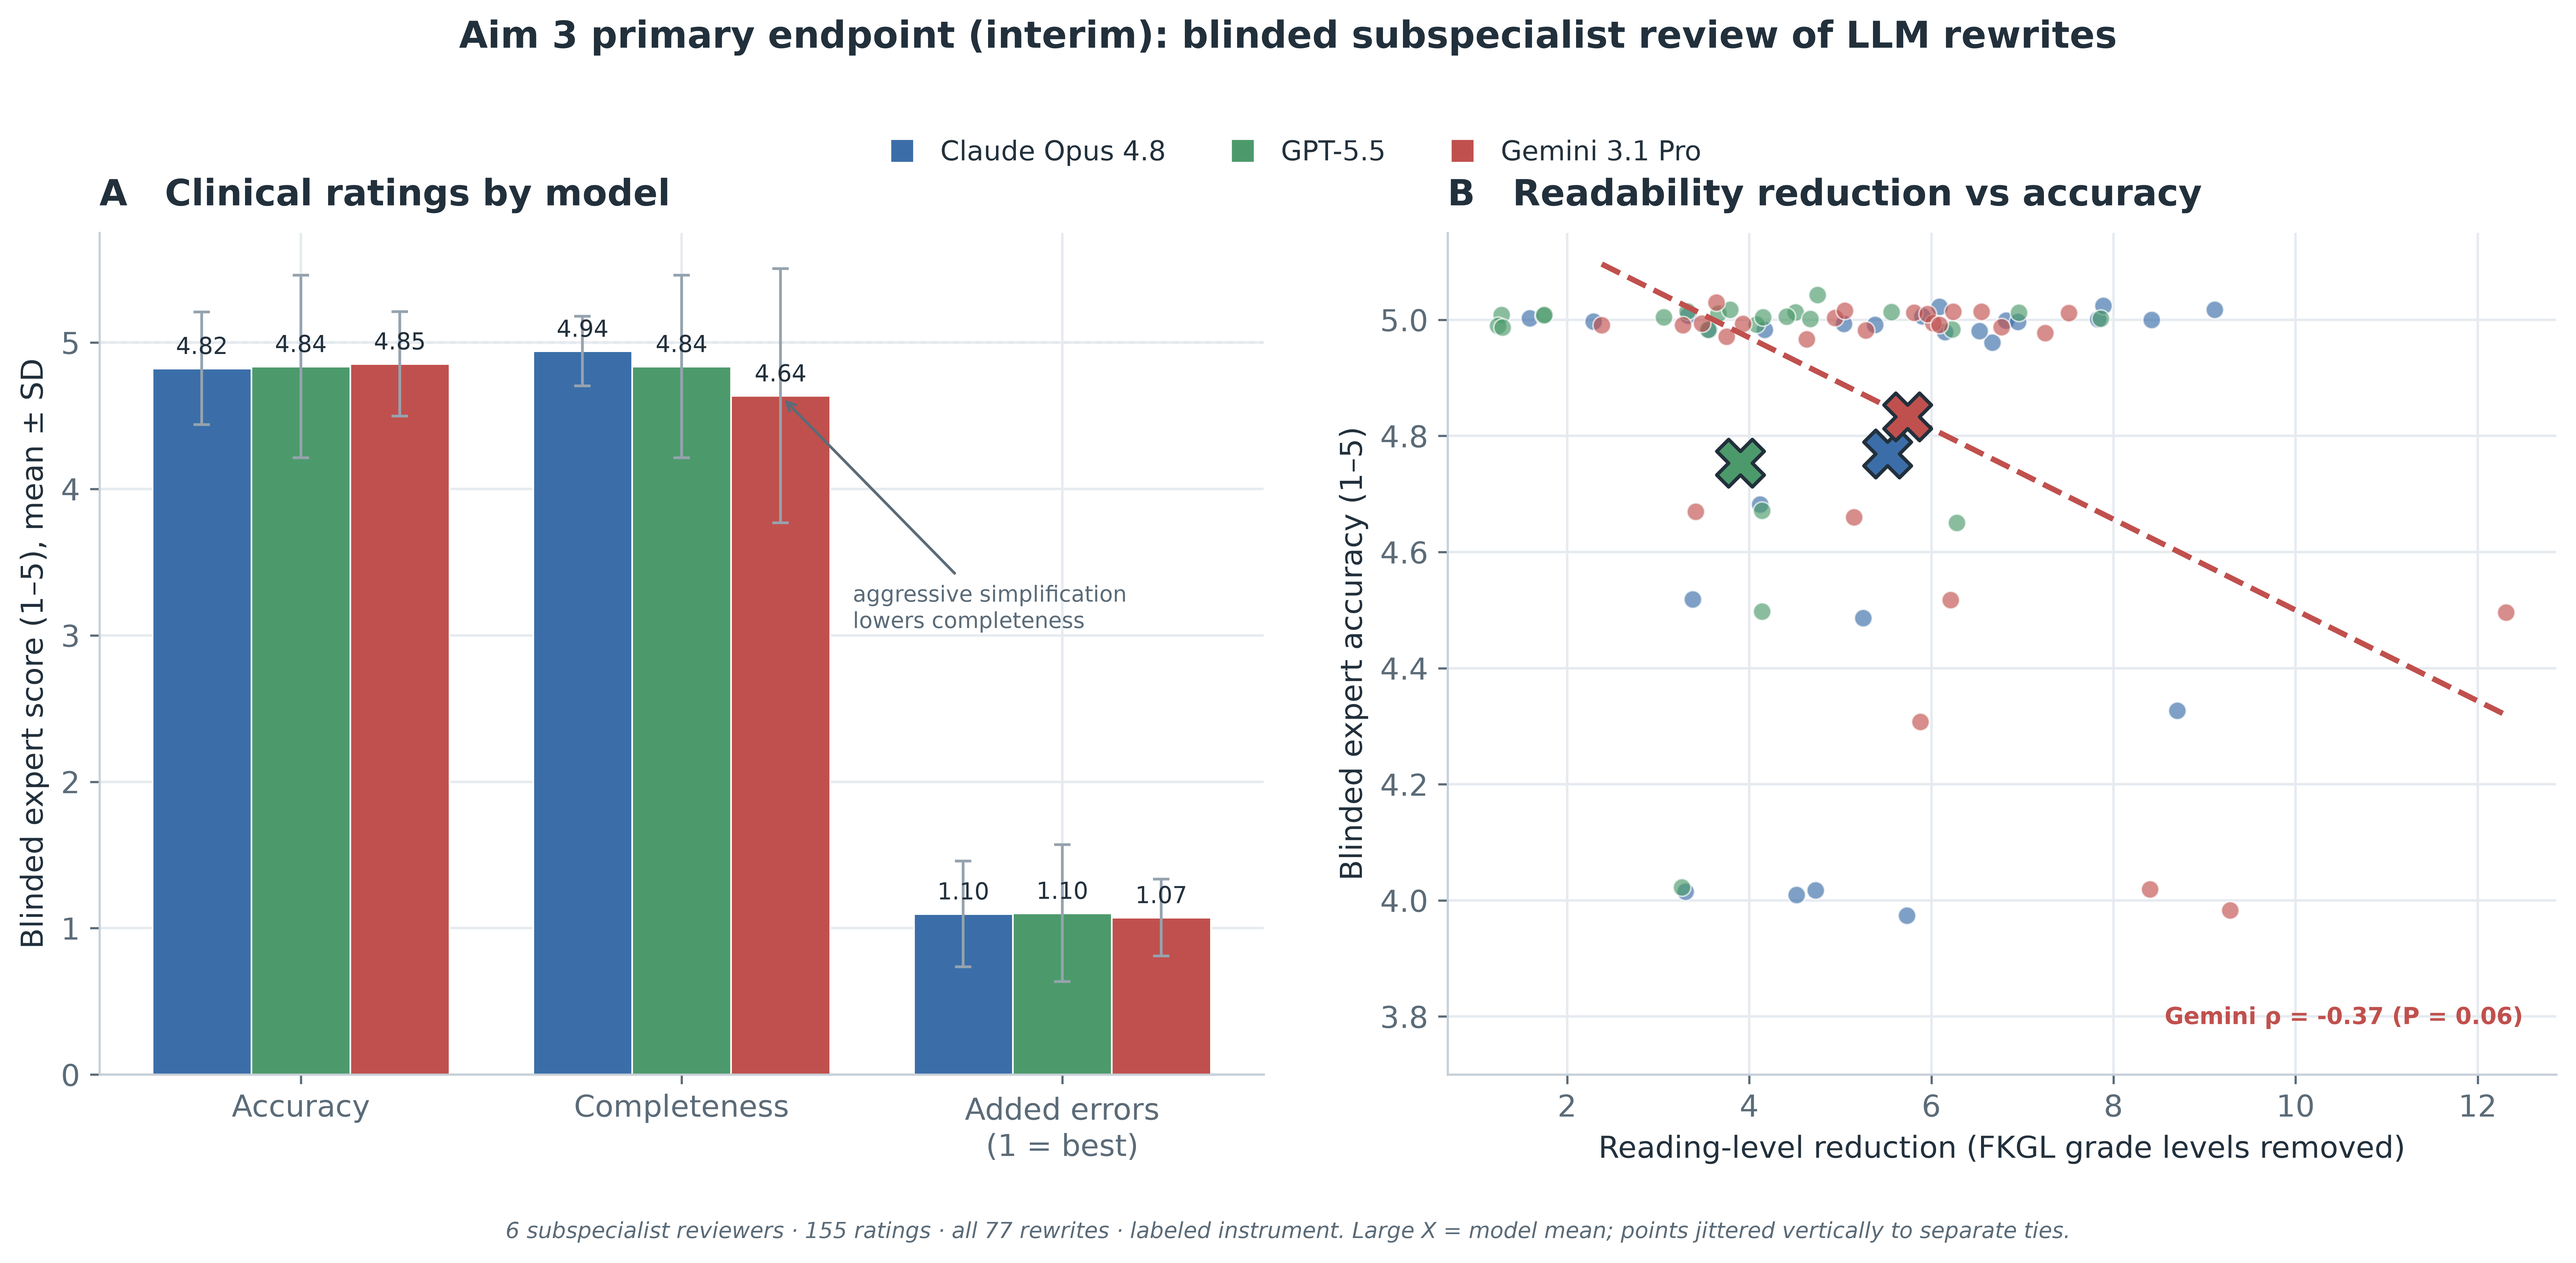
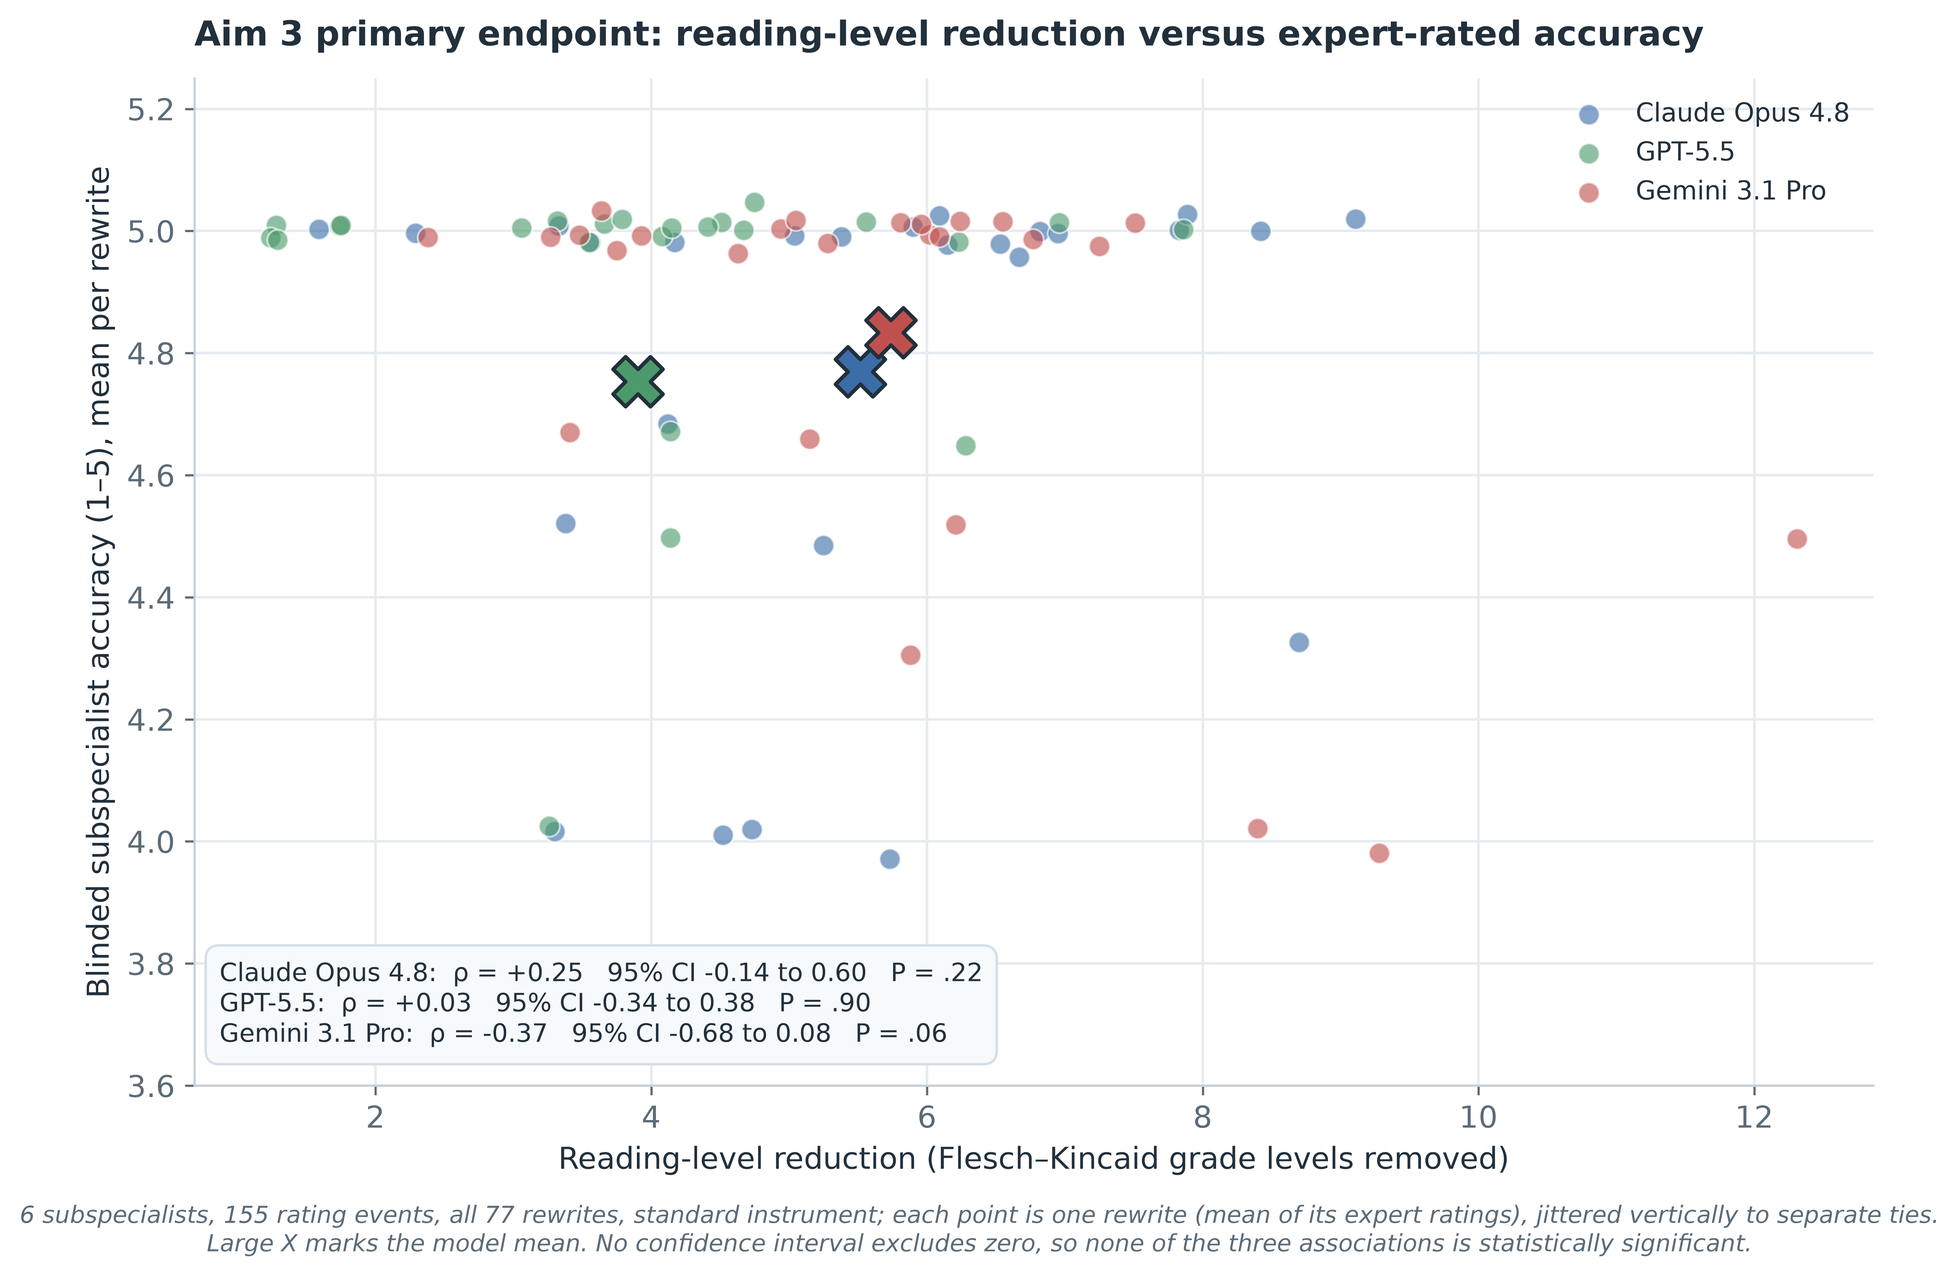
Reduce the Aim 3 primary figure to the per-rewrite trade-off panel
The bar panel duplicated Table 3 and the across-model comparison figure. A table
reports point estimates better than a bar chart; the scatter shows the ceiling, the
spread and the outliers, which a table cannot. The fitted line is also removed: the
inferential statistic is a rank correlation on an ordinal ceiling outcome, so an OLS
line implied a model never fitted. All three correlations now appear inset with
bootstrap CIs.

diff --git a/scripts/13_aim3_human_figures.py b/scripts/13_aim3_human_figures.py
@@ -29,7 +29,6 @@ matplotlib.use("Agg")
 import matplotlib.pyplot as plt  # noqa: E402
 import numpy as np  # noqa: E402
 import pandas as pd  # noqa: E402
-from scipy import stats  # noqa: E402
 
 REPO_ROOT = Path(__file__).resolve().parents[1]
 sys.path.insert(0, str(REPO_ROOT))
@@ -95,79 +94,66 @@ def _bar_labels(ax, bars, fmt="{:.2f}", dy=0.06, size=8.5):
 
 
 def fig_primary(bym: pd.DataFrame, raw: pd.DataFrame, cov: pd.DataFrame) -> None:
-    lab = bym[bym.condition == "expert_labeled"].set_index("model_id")
+    """Aim 3 primary endpoint: the per-rewrite readability-accuracy relationship.
+
+    Deliberately a single panel. An earlier version also carried grouped bars of the
+    per-model means, but Table 3 states those numbers exactly and the cross-model
+    comparison figure shows them again - three presentations of one result. A table
+    reports point estimates better than a bar chart; what a table cannot show is the
+    per-rewrite scatter, the ceiling in the accuracy ratings, and where the individual
+    outliers sit. That is what this figure contributes.
+
+    No fitted line is drawn. The inferential statistic is a Spearman rank correlation
+    on an ordinal outcome with a hard ceiling; an ordinary-least-squares line would
+    imply a linear model that was never fitted and would overstate an association
+    whose confidence interval includes zero.
+    """
     n_rev = int(cov.loc[cov.condition == "expert_labeled", "reviewers"].iloc[0])
     n_rat = int(cov.loc[cov.condition == "expert_labeled", "ratings"].iloc[0])
-    n_rw = int(cov.loc[cov.condition == "expert_labeled", "rewrites_total"].iloc[0])
 
-    fig, (axA, axB) = plt.subplots(1, 2, figsize=(13.2, 5.7),
-                                   gridspec_kw={"width_ratios": [1.05, 1]})
-
-    # ---- Panel A: grouped bars, 3 dimensions x 3 models ----
-    dims = [("accuracy_1_5", "Accuracy"), ("completeness_1_5", "Completeness"),
-            ("added_errors_1_5", "Added errors\n(1 = best)")]
-    x = np.arange(len(dims))
-    w = 0.26
-    for i, m in enumerate(MODELS):
-        means = [lab.loc[m, f"{a}_mean"] for a, _ in dims]
-        sds = [lab.loc[m, f"{a}_sd"] for a, _ in dims]
-        bars = axA.bar(x + (i - 1) * w, means, w, yerr=sds, capsize=3,
-                       label=LABELS[m], color=COLORS[m], edgecolor="white", linewidth=0.6,
-                       error_kw={"elinewidth": 1, "ecolor": "#95a3ae"})
-        _bar_labels(axA, bars)
-    axA.axhline(5, color="#b9c4cd", lw=1, ls=(0, (2, 2)), zorder=0)
-    axA.set_xticks(x)
-    axA.set_xticklabels([n for _, n in dims])
-    axA.set_ylabel("Blinded expert score (1–5), mean ± SD")
-    axA.set_ylim(0, 5.75)
-    axA.set_title("A   Clinical ratings by model", loc="left", fontweight="bold", pad=10)
-    # annotate the completeness dip
-    gem_comp = lab.loc["gemini", "completeness_1_5_mean"]
-    axA.annotate("aggressive simplification\nlowers completeness",
-                 xy=(1 + w, gem_comp), xytext=(1.45, 3.05),
-                 fontsize=8, color=MUTED, ha="left",
-                 arrowprops=dict(arrowstyle="->", color=MUTED, lw=1))
-
-    # ---- Panel B: readability reduction vs accuracy (per page) ----
     deltas = pd.read_csv(SCORES_DIR / "deltas.csv")[["page_id", "model_id", "fkgl_delta"]]
     pm = (raw[raw.condition == "expert_labeled"]
           .groupby(["page_id", "model_id"])[AXES].mean().reset_index()
           .merge(deltas, on=["page_id", "model_id"]))
     pm["reduction"] = -pm["fkgl_delta"]
+    trade = pd.read_csv(REPORTS_DIR / "aim3_compiled_tradeoff.csv")
+
+    fig, ax = plt.subplots(figsize=(9.4, 6.2))
     rng = np.random.default_rng(42)
     for m in MODELS:
-        s = pm[pm.model_id == m]
-        jit = rng.normal(0, 0.02, len(s))
-        axB.scatter(s["reduction"], s["accuracy_1_5"] + jit, s=42, alpha=0.65,
-                    color=COLORS[m], label=LABELS[m], edgecolor="white", linewidth=0.6)
-    # Gemini trend (the one significant association) + rho labels
+        s_ = pm[pm.model_id == m]
+        jit = rng.normal(0, 0.022, len(s_))
+        ax.scatter(s_["reduction"], s_["accuracy_1_5"] + jit, s=58, alpha=0.62,
+                   color=COLORS[m], label=LABELS[m], edgecolor="white", linewidth=0.7)
     for m in MODELS:
-        s = pm[pm.model_id == m]
-        rho, p = stats.spearmanr(s["reduction"], s["accuracy_1_5"])
-        axB.scatter(s["reduction"].mean(), s["accuracy_1_5"].mean(), s=300, color=COLORS[m],
-                    marker="X", edgecolor=INK, linewidth=1.3, zorder=6)
-        if m == "gemini":
-            b1, b0 = np.polyfit(s["reduction"], s["accuracy_1_5"], 1)
-            xs = np.array([s["reduction"].min(), s["reduction"].max()])
-            axB.plot(xs, b0 + b1 * xs, color=COLORS[m], lw=2, ls="--", zorder=4)
-            axB.text(0.97, 0.06, f"Gemini ρ = {rho:.2f} (P = {p:.02f})", transform=axB.transAxes,
-                     ha="right", fontsize=8.5, color=COLORS[m], fontweight="bold")
-    axB.set_xlabel("Reading-level reduction (FKGL grade levels removed)")
-    axB.set_ylabel("Blinded expert accuracy (1–5)")
-    axB.set_title("B   Readability reduction vs accuracy", loc="left", fontweight="bold", pad=10)
-    axB.set_ylim(3.7, 5.15)
+        s_ = pm[pm.model_id == m]
+        ax.scatter(s_["reduction"].mean(), s_["accuracy_1_5"].mean(), s=330,
+                   color=COLORS[m], marker="X", edgecolor=INK, linewidth=1.4, zorder=6)
 
-    handles = [plt.Line2D([0], [0], marker="s", ls="", markersize=9, markerfacecolor=COLORS[m],
-                          markeredgecolor="white", label=LABELS[m]) for m in MODELS]
-    fig.legend(handles=handles, loc="upper center", bbox_to_anchor=(0.5, 0.965), ncol=3,
-               frameon=False, fontsize=10, handletextpad=0.4, columnspacing=1.8)
-    fig.suptitle("Aim 3 primary endpoint (interim): blinded subspecialist review of LLM rewrites",
-                 fontsize=13.5, fontweight="bold", x=0.5, y=1.05)
+    lines = []
+    for m in MODELS:
+        r = trade[(trade.model_id == m) & (trade.axis == "accuracy_1_5")].iloc[0]
+        p_txt = "< .001" if r.p_value < 0.001 else f"= {r.p_value:.2f}".replace("0.", ".")
+        lines.append(f"{LABELS[m]}:  \u03c1 = {r.spearman_rho:+.2f}   "
+                     f"95% CI {r.ci_low:.2f} to {r.ci_high:.2f}   P {p_txt}")
+    ax.text(0.015, 0.035, "\n".join(lines), transform=ax.transAxes, fontsize=9.2,
+            va="bottom", ha="left", color=INK, family="DejaVu Sans",
+            bbox=dict(boxstyle="round,pad=0.55", facecolor="#f7fafc",
+                      edgecolor="#d6dfe7", linewidth=0.9))
+
+    ax.set_xlabel("Reading-level reduction (Flesch–Kincaid grade levels removed)")
+    ax.set_ylabel("Blinded subspecialist accuracy (1–5), mean per rewrite")
+    ax.set_ylim(3.6, 5.25)
+    ax.legend(loc="upper right", frameon=False, fontsize=9.5)
+    ax.set_title("Aim 3 primary endpoint: reading-level reduction versus expert-rated accuracy",
+                 loc="left", fontweight="bold", fontsize=12.5, pad=12)
     fig.text(0.5, -0.035,
-             f"{n_rev} subspecialist reviewers · {n_rat} ratings · all {n_rw} rewrites · labeled instrument. "
-             "Large X = model mean; points jittered vertically to separate ties.",
-             ha="center", fontsize=8, color=MUTED, style="italic")
-    fig.tight_layout(w_pad=2.5)
+             f"{n_rev} subspecialists, {n_rat} rating events, all 77 rewrites, standard instrument; "
+             "each point is one rewrite (mean of its expert ratings), jittered vertically to "
+             "separate ties.\nLarge X marks the model mean. No confidence interval excludes zero, "
+             "so none of the three associations is statistically significant.",
+             ha="center", fontsize=8.6, color=MUTED, style="italic")
+    fig.tight_layout()
     fig.savefig(FIGURES_DIR / "aim3_human_compiled.png", bbox_inches="tight")
     plt.close(fig)
 
